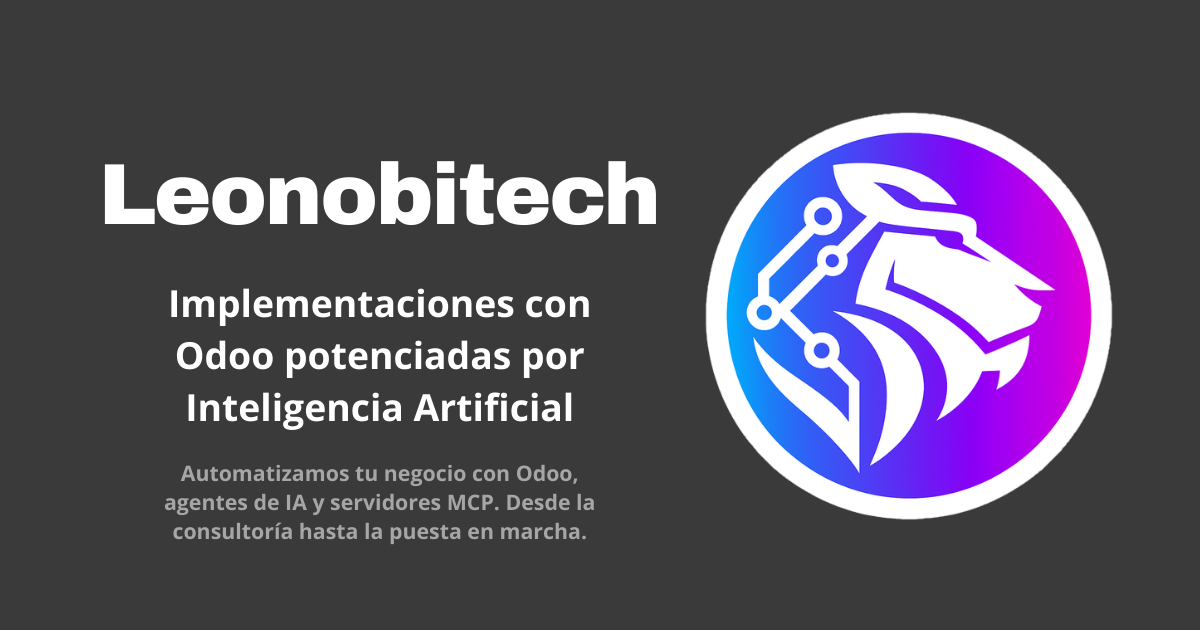
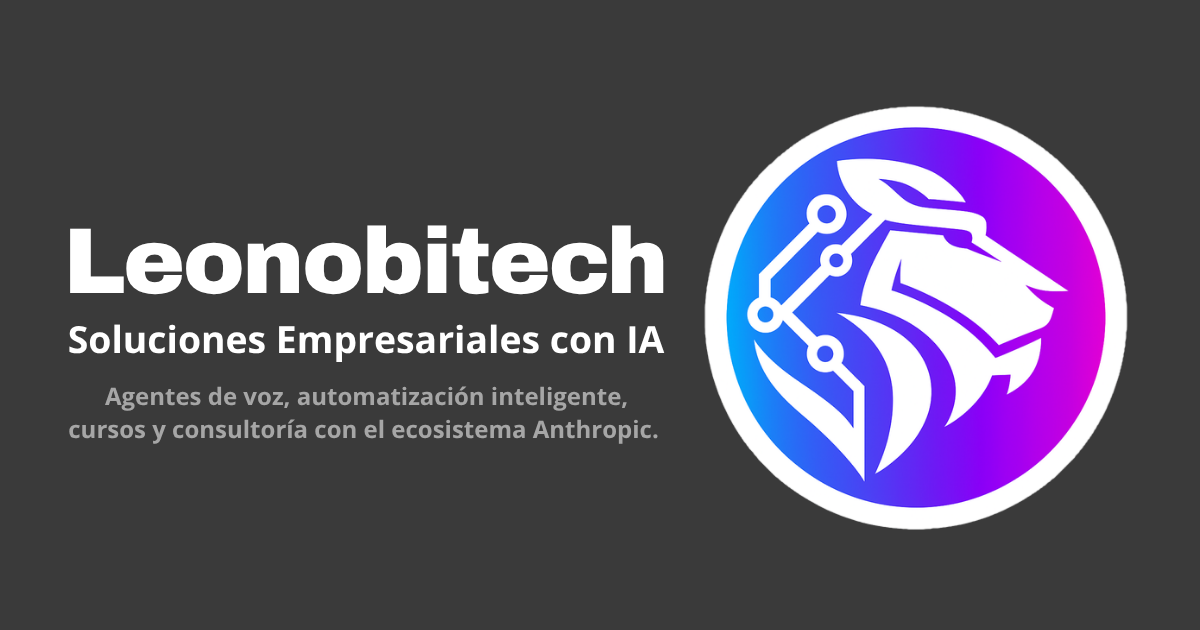
feat(seo): add per-section OG images and update global metadata
🎨 Add 4 OG images: home, courses, blog, demo (1200x630)
🔄 Update root layout title/description from Odoo-only to full platform
🔄 Update OG/Twitter/JSON-LD in root layout with new branding
✨ Add OG image to /courses layout (opengraph-courses.png)
✨ Add OG image fallback to /courses/[slug] when no thumbnail
✨ Add OG image to /blog (opengraph-blog.png)
✨ Add full OG/Twitter metadata to /demo (opengraph-demo.png)

🚀 Powered by Claude Opus 4.6

diff --git a/app/layout.tsx b/app/layout.tsx
@@ -55,22 +55,22 @@ export default function RootLayout({
         <Script src="/scripts/clean-cookies.js" strategy="beforeInteractive" />
         <meta name="robots" content="index, follow" />
         <link rel="canonical" href="https://www.leonobitech.com" />
-        <title>Leonobitech | Avatar Digital con IA - Agente de Voz en Tiempo Real</title>
+        <title>Leonobitech | Soluciones Empresariales con IA</title>
         <meta
           name="description"
-          content="Avatar digital con inteligencia artificial que habla en tiempo real. Agente de voz que atiende clientes, gestiona citas y opera tu negocio de forma automatica. Conectado a Odoo, WhatsApp y mas."
+          content="Soluciones empresariales con inteligencia artificial. Agentes de voz, automatizacion inteligente, cursos y consultoria con el ecosistema Anthropic. Avatar digital en tiempo real."
         />
         <meta
           name="keywords"
-          content="avatar digital, agente de voz, inteligencia artificial, IA conversacional, asistente virtual, atencion al cliente automatica, Odoo, chatbot de voz, avatar IA tiempo real, agente virtual, automatizacion empresarial, voicebot"
+          content="soluciones empresariales IA, agente de voz, inteligencia artificial, cursos Anthropic, Claude API, automatizacion empresarial, avatar digital, MCP servers, agentes IA, LLM enterprise, consultoria IA"
         />
         <meta
           property="og:title"
-          content="Leonobitech | Avatar Digital con IA - Agente de Voz en Tiempo Real"
+          content="Leonobitech | Soluciones Empresariales con IA"
         />
         <meta
           property="og:description"
-          content="Avatar digital con inteligencia artificial que habla en tiempo real. Agente de voz que atiende clientes, gestiona citas y opera tu negocio de forma automatica."
+          content="Soluciones empresariales con inteligencia artificial. Agentes de voz, automatizacion inteligente, cursos y consultoria con el ecosistema Anthropic."
         />
         <meta
           property="og:image"
@@ -78,7 +78,7 @@ export default function RootLayout({
         />
         <meta
           property="og:image:alt"
-          content="Leonobitech - Avatar digital con IA que habla en tiempo real"
+          content="Leonobitech — Soluciones Empresariales con IA"
         />
         <meta property="og:image:width" content="1200" />
         <meta property="og:image:height" content="630" />
@@ -89,11 +89,11 @@ export default function RootLayout({
         <meta name="twitter:card" content="summary_large_image" />
         <meta
           name="twitter:title"
-          content="Leonobitech | Avatar Digital con IA - Agente de Voz en Tiempo Real"
+          content="Leonobitech | Soluciones Empresariales con IA"
         />
         <meta
           name="twitter:description"
-          content="Avatar digital con inteligencia artificial que habla en tiempo real. Agente de voz que atiende clientes, gestiona citas y opera tu negocio de forma automatica."
+          content="Soluciones empresariales con inteligencia artificial. Agentes de voz, automatizacion inteligente, cursos y consultoria con el ecosistema Anthropic."
         />
         <meta
           name="twitter:image"
@@ -148,7 +148,7 @@ export default function RootLayout({
                   url: "https://www.leonobitech.com",
                   name: "Leonobitech",
                   description:
-                    "Avatar digital con inteligencia artificial que habla en tiempo real. Agente de voz para atencion al cliente y automatizacion empresarial.",
+                    "Soluciones empresariales con inteligencia artificial. Agentes de voz, automatizacion inteligente, cursos y consultoria con el ecosistema Anthropic.",
                   publisher: {
                     "@id": "https://www.leonobitech.com/#organization",
                   },
@@ -157,7 +157,7 @@ export default function RootLayout({
                   "@type": "WebPage",
                   "@id": "https://www.leonobitech.com/#webpage",
                   url: "https://www.leonobitech.com",
-                  name: "Leonobitech | Avatar Digital con IA - Agente de Voz en Tiempo Real",
+                  name: "Leonobitech | Soluciones Empresariales con IA",
                   isPartOf: {
                     "@id": "https://www.leonobitech.com/#website",
                   },
@@ -165,7 +165,7 @@ export default function RootLayout({
                     "@id": "https://www.leonobitech.com/#organization",
                   },
                   description:
-                    "Avatar digital con inteligencia artificial que habla en tiempo real. Agente de voz que atiende clientes, gestiona citas y opera tu negocio de forma automatica.",
+                    "Soluciones empresariales con inteligencia artificial. Agentes de voz, automatizacion inteligente, cursos y consultoria con el ecosistema Anthropic.",
                 },
               ],
             }),

diff --git a/app/courses/[slug]/page.tsx b/app/courses/[slug]/page.tsx
@@ -53,24 +53,20 @@ export async function generateMetadata({ params }: Props): Promise<Metadata> {
       type: "website",
       url: `https://www.leonobitech.com/courses/${slug}`,
       siteName: "Leonobitech",
-      ...(course.thumbnailUrl
-        ? {
-            images: [
-              {
-                url: course.thumbnailUrl,
-                width: 1200,
-                height: 630,
-                alt: course.title,
-              },
-            ],
-          }
-        : {}),
+      images: [
+        {
+          url: course.thumbnailUrl || "https://www.leonobitech.com/opengraph-courses.png",
+          width: 1200,
+          height: 630,
+          alt: course.title,
+        },
+      ],
     },
     twitter: {
       card: "summary_large_image",
       title: course.title,
       description,
-      ...(course.thumbnailUrl ? { images: [course.thumbnailUrl] } : {}),
+      images: [course.thumbnailUrl || "https://www.leonobitech.com/opengraph-courses.png"],
     },
     alternates: {
       canonical: `https://www.leonobitech.com/courses/${slug}`,

diff --git a/app/demo/page.tsx b/app/demo/page.tsx
@@ -5,6 +5,29 @@ export const metadata: Metadata = {
   title: "Demo Agente de Voz con IA | Leonobitech",
   description:
     "Prueba en vivo nuestro avatar digital con inteligencia artificial. Agente de voz en tiempo real que atiende clientes y opera Odoo de forma automatica.",
+  openGraph: {
+    title: "Leonobit — Avatar Digital con IA",
+    description:
+      "Agente de Voz en Tiempo Real. Habla con nuestro avatar IA en vivo.",
+    type: "website",
+    url: "https://www.leonobitech.com/demo",
+    siteName: "Leonobitech",
+    images: [
+      {
+        url: "https://www.leonobitech.com/opengraph-demo.png",
+        width: 1200,
+        height: 630,
+        alt: "Leonobit — Avatar Digital con IA en Tiempo Real",
+      },
+    ],
+  },
+  twitter: {
+    card: "summary_large_image",
+    title: "Leonobit — Avatar Digital con IA",
+    description:
+      "Agente de Voz en Tiempo Real. Habla con nuestro avatar IA en vivo.",
+    images: ["https://www.leonobitech.com/opengraph-demo.png"],
+  },
 };
 
 export default function DemoPage() {

diff --git a/app/blog/page.tsx b/app/blog/page.tsx
@@ -14,14 +14,23 @@ export const metadata: Metadata = {
     description:
       "Learn about Claude & Anthropic through visual, approachable episodes. From Claude 101 to Agent Teams.",
     type: "website",
-    url: "https://leonobitech.com/blog",
+    url: "https://www.leonobitech.com/blog",
     siteName: "Leonobitech",
+    images: [
+      {
+        url: "https://www.leonobitech.com/opengraph-blog.png",
+        width: 1200,
+        height: 630,
+        alt: "Blog Leonobitech — Knowing Claude over Coffee",
+      },
+    ],
   },
   twitter: {
     card: "summary_large_image",
     title: "Knowing Claude over Coffee ☕",
     description:
       "Learn about Claude & Anthropic through visual, approachable episodes.",
+    images: ["https://www.leonobitech.com/opengraph-blog.png"],
   },
 };
 

diff --git a/app/courses/layout.tsx b/app/courses/layout.tsx
@@ -21,12 +21,21 @@ export const metadata: Metadata = {
     type: "website",
     url: "https://www.leonobitech.com/courses",
     siteName: "Leonobitech",
+    images: [
+      {
+        url: "https://www.leonobitech.com/opengraph-courses.png",
+        width: 1200,
+        height: 630,
+        alt: "Cursos Leonobitech — Ecosistema Anthropic para Empresas",
+      },
+    ],
   },
   twitter: {
     card: "summary_large_image",
     title: "Cursos — Leonobitech",
     description:
       "Cursos profesionales sobre el ecosistema Anthropic para empresas.",
+    images: ["https://www.leonobitech.com/opengraph-courses.png"],
   },
   alternates: {
     canonical: "https://www.leonobitech.com/courses",
